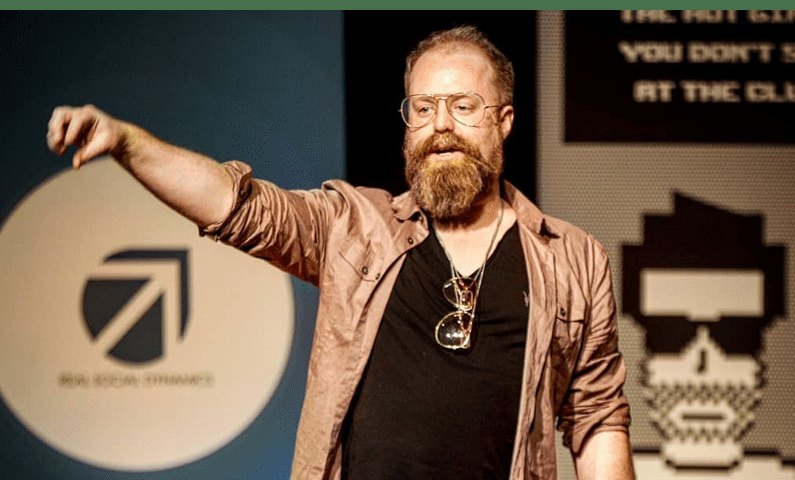
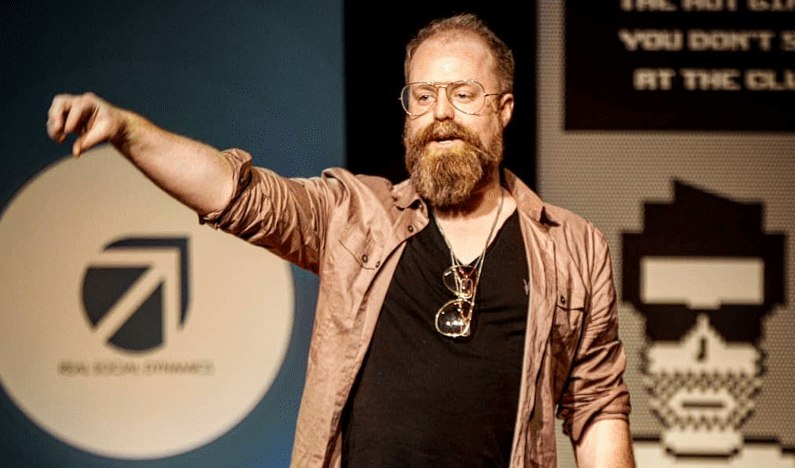
BPR page details: real Stripe link, 3 testimonials, reframe Owen as curriculum designer (coaches run calls), expand drills, per-call pricing, new bonus values, end-of-month countdown, clean founder photo

diff --git a/index.html b/index.html
@@ -32,7 +32,7 @@
      ever needs to come down.
 
   3. STRIPE PAYMENT LINK
-     Every button below with href="#STRIPE_LINK_PLACEHOLDER" needs
+     Every button below with href="https://buy.stripe.com/00w7sM9GS1s17iT3RD1oI0r" needs
      your real Stripe Payment Link (buy.stripe.com/...).
      In Stripe: set the Payment Link's "After payment" redirect to
      your deployed thank-you.html URL.
@@ -44,7 +44,7 @@
 -->
 
 <div class="deadline-bar">
-  <span class="label">Offer closes in</span>
+  <span class="label">This special, with all bonus programs, expires in</span>
   <span class="units">
     <span class="unit"><b id="cd-days">00</b><span>Days</span></span>
     <span class="unit"><b id="cd-hours">00</b><span>Hrs</span></span>
@@ -56,7 +56,7 @@
 <nav class="nav">
   <div class="wrap">
     <div class="nav-mark">BLUEPRINT RELOADED <span>COMMUNITY</span></div>
-    <a class="btn btn-cta" href="#STRIPE_LINK_PLACEHOLDER">Join BPR</a>
+    <a class="btn btn-cta" href="https://buy.stripe.com/00w7sM9GS1s17iT3RD1oI0r">Join BPR</a>
   </div>
 </nav>
 
@@ -76,7 +76,7 @@
         <li>Cancel anytime</li>
       </ul>
       <div class="hero-ctas">
-        <a class="btn btn-cta btn-pulse" href="#STRIPE_LINK_PLACEHOLDER">Join BPR — $47/mo</a>
+        <a class="btn btn-cta btn-pulse" href="https://buy.stripe.com/00w7sM9GS1s17iT3RD1oI0r">Join BPR — $47/mo</a>
         <a class="textlink" href="#stack">See what's included</a>
       </div>
     </div>
@@ -89,7 +89,7 @@
         <li>3 bonus programs unlocked instantly</li>
         <li>Cancel anytime, no contract</li>
       </ul>
-      <a class="btn btn-cta btn-block" href="#STRIPE_LINK_PLACEHOLDER">Join BPR now</a>
+      <a class="btn btn-cta btn-block" href="https://buy.stripe.com/00w7sM9GS1s17iT3RD1oI0r">Join BPR now</a>
       <p class="fine">Instant access after checkout.</p>
     </div>
   </div>
@@ -259,16 +259,19 @@
         <img class="bonus-cover" src="assets/img/endless-motivation-cover.png" alt="Endless Motivation 2.0: Evolution course package" loading="lazy" />
         <h3>Endless Motivation 2.0: Evolution</h3>
         <p>Owen's motivation and identity reboot. Dissolve procrastination and resistance, find your own natural reasons to wake up fired up, and flip motivation on like a switch, without to-do lists, 5am alarms, or willpower. Includes Social Skills, Business Building, and Inner Self Mastery masterclasses.</p>
-        <div class="bonus-value">Value: $5,997</div>
+        <div class="bonus-value">Value: $1,882</div>
       </div>
 
-      <!-- Bonus 2: real product, cover image still needed — see PLACEHOLDER note -->
+      <!-- Bonus 2: Blueprint Reloaded Gold. Cover = the BPR product mockup the user pasted.
+           SAVE that image to assets/img/blueprint-reloaded-gold.png and it appears automatically;
+           until then it falls back to a labelled placeholder box. -->
       <div class="bonus-card reveal">
         <span class="bonus-tag">Bonus 2</span>
-        <div class="bonus-image-placeholder">PLACEHOLDER — add cover image</div>
+        <img class="bonus-cover" src="assets/img/blueprint-reloaded-gold.png" alt="Blueprint Reloaded course package" loading="lazy" onerror="this.style.display='none';this.nextElementSibling.style.display='flex';" />
+        <div class="bonus-image-placeholder" style="display:none">Save pasted image as assets/img/blueprint-reloaded-gold.png</div>
         <h3>Blueprint Reloaded Gold</h3>
-        <p>Rebuild your inner foundation and break free from limiting patterns. Recognize the unconscious behaviors, emotional blocks, and identity loops shaping your actions.</p>
-        <div class="bonus-value">Value: $4,997</div>
+        <p>The full Blueprint Reloaded program: public speaking dominance, social dynamics mastery, the winner effect, opportunity x-ray, energy wizardry, and more. The complete curriculum the community's drills are built on.</p>
+        <div class="bonus-value">Value: $6,997</div>
       </div>
 
       <!-- Bonus 3: Owen's Last Game Program — real Owen photo; description still to confirm -->
@@ -333,23 +336,23 @@
     <ul class="stack-list reveal">
       <li class="stack-row">
         <div class="label">5+ group coaching exercise calls a week
-          <span class="sub">Projection, tonality, fast yap under pressure, storytelling, and more</span>
+          <span class="sub">$97 per call, 20+ live calls a month with Owen's trained coaches</span>
         </div>
-        <div class="value">$1,997/mo</div>
+        <div class="value">$1,940/mo</div>
       </li>
       <li class="stack-row">
         <div class="label">Daily community accountability
-          <span class="sub">One community, no scheduling, no app to check</span>
+          <span class="sub">One community, worldwide network, real-time feedback</span>
         </div>
-        <div class="value">$197/mo</div>
+        <div class="value">$297/mo</div>
       </li>
       <li class="stack-row">
         <div class="label">Endless Motivation 2.0</div>
-        <div class="value">$5,997</div>
+        <div class="value">$1,882</div>
       </li>
       <li class="stack-row">
         <div class="label">Blueprint Reloaded Gold</div>
-        <div class="value">$4,997</div>
+        <div class="value">$6,997</div>
       </li>
       <li class="stack-row">
         <div class="label">Owen's Last Game Program</div>
@@ -357,7 +360,7 @@
       </li>
       <li class="stack-row total">
         <div class="label">Total value</div>
-        <div class="value">$13,785</div>
+        <div class="value">$11,713</div>
       </li>
     </ul>
 
@@ -366,24 +369,41 @@
         <div class="price-figure">$47<span>/month</span></div>
         <p class="hero-fineprint" style="margin-top:8px;">Cancel anytime. No contracts.</p>
       </div>
-      <a class="btn btn-cta" href="#STRIPE_LINK_PLACEHOLDER">Join BPR now</a>
+      <a class="btn btn-cta" href="https://buy.stripe.com/00w7sM9GS1s17iT3RD1oI0r">Join BPR now</a>
     </div>
   </div>
 </section>
 
-<section class="section-alt testimonial-band">
+<section class="section-alt">
   <div class="wrap">
-    <div class="reveal">
-      <span class="stars" aria-hidden="true">
-        <svg viewBox="0 0 20 20" fill="currentColor"><path d="M10 1.5l2.6 5.3 5.9.9-4.3 4.1 1 5.8L10 14.8l-5.2 2.8 1-5.8-4.3-4.1 5.9-.9L10 1.5z"/></svg>
-        <svg viewBox="0 0 20 20" fill="currentColor"><path d="M10 1.5l2.6 5.3 5.9.9-4.3 4.1 1 5.8L10 14.8l-5.2 2.8 1-5.8-4.3-4.1 5.9-.9L10 1.5z"/></svg>
-        <svg viewBox="0 0 20 20" fill="currentColor"><path d="M10 1.5l2.6 5.3 5.9.9-4.3 4.1 1 5.8L10 14.8l-5.2 2.8 1-5.8-4.3-4.1 5.9-.9L10 1.5z"/></svg>
-        <svg viewBox="0 0 20 20" fill="currentColor"><path d="M10 1.5l2.6 5.3 5.9.9-4.3 4.1 1 5.8L10 14.8l-5.2 2.8 1-5.8-4.3-4.1 5.9-.9L10 1.5z"/></svg>
-        <svg viewBox="0 0 20 20" fill="currentColor"><path d="M10 1.5l2.6 5.3 5.9.9-4.3 4.1 1 5.8L10 14.8l-5.2 2.8 1-5.8-4.3-4.1 5.9-.9L10 1.5z"/></svg>
-      </span>
-      <h2 class="quote-headline">[Placeholder — replace with a real member testimonial before launch]</h2>
-      <blockquote>[Placeholder testimonial body. Swap for a real quote from a BPR member, ideally naming a specific drill or a real-world result: a date, a pitch, a conversation that went differently because of the reps.]</blockquote>
-      <cite>[Placeholder name], BPR member</cite>
+    <div class="section-head center reveal">
+      <h2>What members are saying</h2>
+      <p class="lede">Real feedback from people running the drills every week.</p>
+    </div>
+    <!-- SAMPLE testimonials for the review draft. Replace with real, verified member
+         reviews before this page goes public (honesty / FTC). -->
+    <div class="testimonial-grid reveal">
+      <div class="tcard">
+        <span class="stars" aria-hidden="true">
+          <svg viewBox="0 0 20 20" fill="currentColor"><path d="M10 1.5l2.6 5.3 5.9.9-4.3 4.1 1 5.8L10 14.8l-5.2 2.8 1-5.8-4.3-4.1 5.9-.9L10 1.5z"/></svg><svg viewBox="0 0 20 20" fill="currentColor"><path d="M10 1.5l2.6 5.3 5.9.9-4.3 4.1 1 5.8L10 14.8l-5.2 2.8 1-5.8-4.3-4.1 5.9-.9L10 1.5z"/></svg><svg viewBox="0 0 20 20" fill="currentColor"><path d="M10 1.5l2.6 5.3 5.9.9-4.3 4.1 1 5.8L10 14.8l-5.2 2.8 1-5.8-4.3-4.1 5.9-.9L10 1.5z"/></svg><svg viewBox="0 0 20 20" fill="currentColor"><path d="M10 1.5l2.6 5.3 5.9.9-4.3 4.1 1 5.8L10 14.8l-5.2 2.8 1-5.8-4.3-4.1 5.9-.9L10 1.5z"/></svg><svg viewBox="0 0 20 20" fill="currentColor"><path d="M10 1.5l2.6 5.3 5.9.9-4.3 4.1 1 5.8L10 14.8l-5.2 2.8 1-5.8-4.3-4.1 5.9-.9L10 1.5z"/></svg>
+        </span>
+        <blockquote>I used to freeze the second all eyes were on me. After a few weeks of the projection and frame-battle drills I ran a room of 40 people at work without my voice shaking once.</blockquote>
+        <cite>Marcus T., member 3 months</cite>
+      </div>
+      <div class="tcard">
+        <span class="stars" aria-hidden="true">
+          <svg viewBox="0 0 20 20" fill="currentColor"><path d="M10 1.5l2.6 5.3 5.9.9-4.3 4.1 1 5.8L10 14.8l-5.2 2.8 1-5.8-4.3-4.1 5.9-.9L10 1.5z"/></svg><svg viewBox="0 0 20 20" fill="currentColor"><path d="M10 1.5l2.6 5.3 5.9.9-4.3 4.1 1 5.8L10 14.8l-5.2 2.8 1-5.8-4.3-4.1 5.9-.9L10 1.5z"/></svg><svg viewBox="0 0 20 20" fill="currentColor"><path d="M10 1.5l2.6 5.3 5.9.9-4.3 4.1 1 5.8L10 14.8l-5.2 2.8 1-5.8-4.3-4.1 5.9-.9L10 1.5z"/></svg><svg viewBox="0 0 20 20" fill="currentColor"><path d="M10 1.5l2.6 5.3 5.9.9-4.3 4.1 1 5.8L10 14.8l-5.2 2.8 1-5.8-4.3-4.1 5.9-.9L10 1.5z"/></svg><svg viewBox="0 0 20 20" fill="currentColor"><path d="M10 1.5l2.6 5.3 5.9.9-4.3 4.1 1 5.8L10 14.8l-5.2 2.8 1-5.8-4.3-4.1 5.9-.9L10 1.5z"/></svg>
+        </span>
+        <blockquote>The fast-talking-under-pressure calls are brutal in the best way. Dates and sales calls feel easy now because nothing throws me off anymore.</blockquote>
+        <cite>Deniz K., member 6 months</cite>
+      </div>
+      <div class="tcard">
+        <span class="stars" aria-hidden="true">
+          <svg viewBox="0 0 20 20" fill="currentColor"><path d="M10 1.5l2.6 5.3 5.9.9-4.3 4.1 1 5.8L10 14.8l-5.2 2.8 1-5.8-4.3-4.1 5.9-.9L10 1.5z"/></svg><svg viewBox="0 0 20 20" fill="currentColor"><path d="M10 1.5l2.6 5.3 5.9.9-4.3 4.1 1 5.8L10 14.8l-5.2 2.8 1-5.8-4.3-4.1 5.9-.9L10 1.5z"/></svg><svg viewBox="0 0 20 20" fill="currentColor"><path d="M10 1.5l2.6 5.3 5.9.9-4.3 4.1 1 5.8L10 14.8l-5.2 2.8 1-5.8-4.3-4.1 5.9-.9L10 1.5z"/></svg><svg viewBox="0 0 20 20" fill="currentColor"><path d="M10 1.5l2.6 5.3 5.9.9-4.3 4.1 1 5.8L10 14.8l-5.2 2.8 1-5.8-4.3-4.1 5.9-.9L10 1.5z"/></svg><svg viewBox="0 0 20 20" fill="currentColor"><path d="M10 1.5l2.6 5.3 5.9.9-4.3 4.1 1 5.8L10 14.8l-5.2 2.8 1-5.8-4.3-4.1 5.9-.9L10 1.5z"/></svg>
+        </span>
+        <blockquote>I'd watched every video out there and still couldn't do it live. Doing the reps with the coaches every week is the only thing that ever moved the needle for me.</blockquote>
+        <cite>Ryan P., member 4 months</cite>
+      </div>
     </div>
   </div>
 </section>
@@ -462,7 +482,7 @@
   <div class="wrap">
     <h2 class="reveal">Your voice isn't going to train itself.</h2>
     <p class="lede reveal">Nobody builds a bigger, freer voice alone in a bedroom. You build it in the room, out loud, with people pushing you. 5+ calls a week. One community. $47 a month.</p>
-    <a class="btn btn-cta reveal" href="#STRIPE_LINK_PLACEHOLDER">Join BPR — $47/mo</a>
+    <a class="btn btn-cta reveal" href="https://buy.stripe.com/00w7sM9GS1s17iT3RD1oI0r">Join BPR — $47/mo</a>
   </div>
 </section>
 
@@ -474,7 +494,7 @@
 </footer>
 
 <div class="mobile-cta">
-  <a class="btn btn-cta" href="#STRIPE_LINK_PLACEHOLDER">Join BPR — $47/mo</a>
+  <a class="btn btn-cta" href="https://buy.stripe.com/00w7sM9GS1s17iT3RD1oI0r">Join BPR — $47/mo</a>
 </div>
 
 <script>document.getElementById("year").textContent = new Date().getFullYear();</script>

diff --git a/assets/styles.css b/assets/styles.css
@@ -318,7 +318,13 @@ strong { color: inherit; font-weight: 700; }
 .stars { display: inline-flex; gap: 4px; color: var(--accent); }
 .stars svg { width: 24px; height: 24px; }
 
-/* ---------- testimonial ---------- */
+/* ---------- testimonials ---------- */
+
+.testimonial-grid { display: grid; grid-template-columns: repeat(auto-fit, minmax(280px, 1fr)); gap: 22px; }
+.tcard { background: var(--paper); border: 1px solid var(--border); border-radius: 10px; padding: 26px; box-shadow: var(--shadow-card); text-align: left; }
+.tcard .stars { margin-bottom: 12px; }
+.tcard blockquote { margin: 0 0 16px; color: var(--ink); font-size: 1.02rem; line-height: 1.6; }
+.tcard cite { font-style: normal; font-weight: 800; color: var(--neutral-dim); font-size: 0.86rem; }
 
 .testimonial-band { text-align: center; }
 .testimonial-band .stars { justify-content: center; margin-bottom: 20px; }